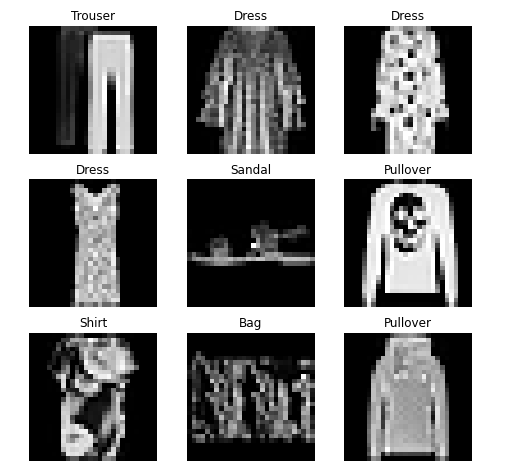
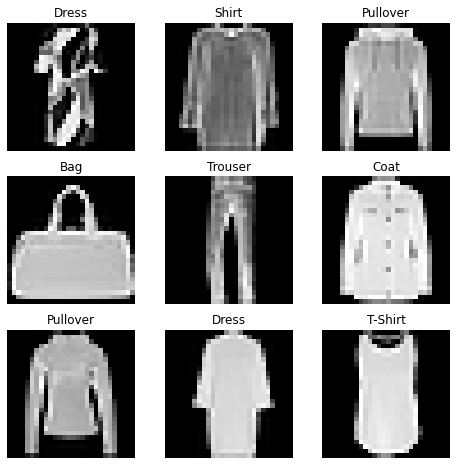
80% of dataset, dataloader

diff --git a/cn/docs/code/basics/dataset_dataloader.py b/cn/docs/code/basics/dataset_dataloader.py
@@ -36,26 +36,36 @@ test_data = datasets.FashionMNIST(
     transform=ToTensor()
 )
 
-labels_map = {
-    0: "T-Shirt",
-    1: "Trouser",
-    2: "Pullover",
-    3: "Dress",
-    4: "Coat",
-    5: "Sandal",
-    6: "Shirt",
-    7: "Sneaker",
-    8: "Bag",
-    9: "Ankle Boot",
-}
-figure = plt.figure(figsize=(8, 8))
-cols, rows = 3, 3
-from random import randint
-for i in range(1, cols * rows + 1):
-    sample_idx = randint(0, len(training_data))
-    img, label = training_data[sample_idx]
-    figure.add_subplot(rows, cols, i)
-    plt.title(labels_map[label])
-    plt.axis("off")
-    plt.imshow(img.squeeze().numpy(), cmap="gray")
-plt.show()
+# labels_map = {
+#     0: "T-Shirt",
+#     1: "Trouser",
+#     2: "Pullover",
+#     3: "Dress",
+#     4: "Coat",
+#     5: "Sandal",
+#     6: "Shirt",
+#     7: "Sneaker",
+#     8: "Bag",
+#     9: "Ankle Boot",
+# }
+# figure = plt.figure(figsize=(8, 8))
+# cols, rows = 3, 3
+# from random import randint
+# for i in range(1, cols * rows + 1):
+#     sample_idx = randint(0, len(training_data))
+#     img, label = training_data[sample_idx]
+#     figure.add_subplot(rows, cols, i)
+#     plt.title(labels_map[label])
+#     plt.axis("off")
+#     plt.imshow(img.squeeze().numpy(), cmap="gray")
+# plt.show()
+
+from oneflow.utils.data import DataLoader
+
+train_dataloader = DataLoader(training_data, batch_size=64, shuffle=True)
+x, label = next(iter(train_dataloader))
+print(f"shape of x:{x.shape}, shape of label: {label.shape}")
+
+for x, label in train_dataloader:
+    print(x.shape, label.shape)
+    # training...

diff --git a/cn/docs/basics/03_dataset_dataloader.md b/cn/docs/basics/03_dataset_dataloader.md
@@ -98,3 +98,49 @@ plt.show()
 ```
 
 ![fashionMNIST](../imgs/fashionMNIST.png)
+
+## 使用 DataLoader
+
+利用 Dataset 可以一次获取到所有数据。但是在训练中，往往有其它的需求，如：一次读取 batch size 份数据；1轮 epoch 训练后，数据重新打乱（reshuffle）等。
+
+这时候，使用 `DataLoader` 即可。 `DataLoader` 可以将 `DataSet` 封装为迭代器，方便训练循环中获取数据。如以下例子：
+
+- `batch_size=64` ： 指定一次迭代返回的数据 batch size
+- `shuffle` ：是否要随机打乱数据的顺序
+
+```python
+from oneflow.utils.data import DataLoader
+
+train_dataloader = DataLoader(training_data, batch_size=64, shuffle=True)
+x, label = next(iter(train_dataloader))
+print(f"shape of x:{x.shape}, shape of label: {label.shape}")
+```
+
+输出：
+```text
+shape of x:flow.Size([64, 1, 28, 28]), shape of label: flow.Size([64])
+```
+
+```python
+img = x[0].squeeze().numpy()
+label = label[0]
+plt.imshow(img, cmap="gray")
+plt.show()
+print(label)
+```
+
+输出：
+
+![dataloader item](./imgs/dataloader_item.png)
+
+```text
+tensor(9, dtype=oneflow.int64)
+```
+
+自然我们也可以在训练的循环中，使用 `Dataloader` 迭代器：
+
+```python
+for x, label in train_dataloader:
+    print(x.shape, label.shape)
+    # training...
+```
